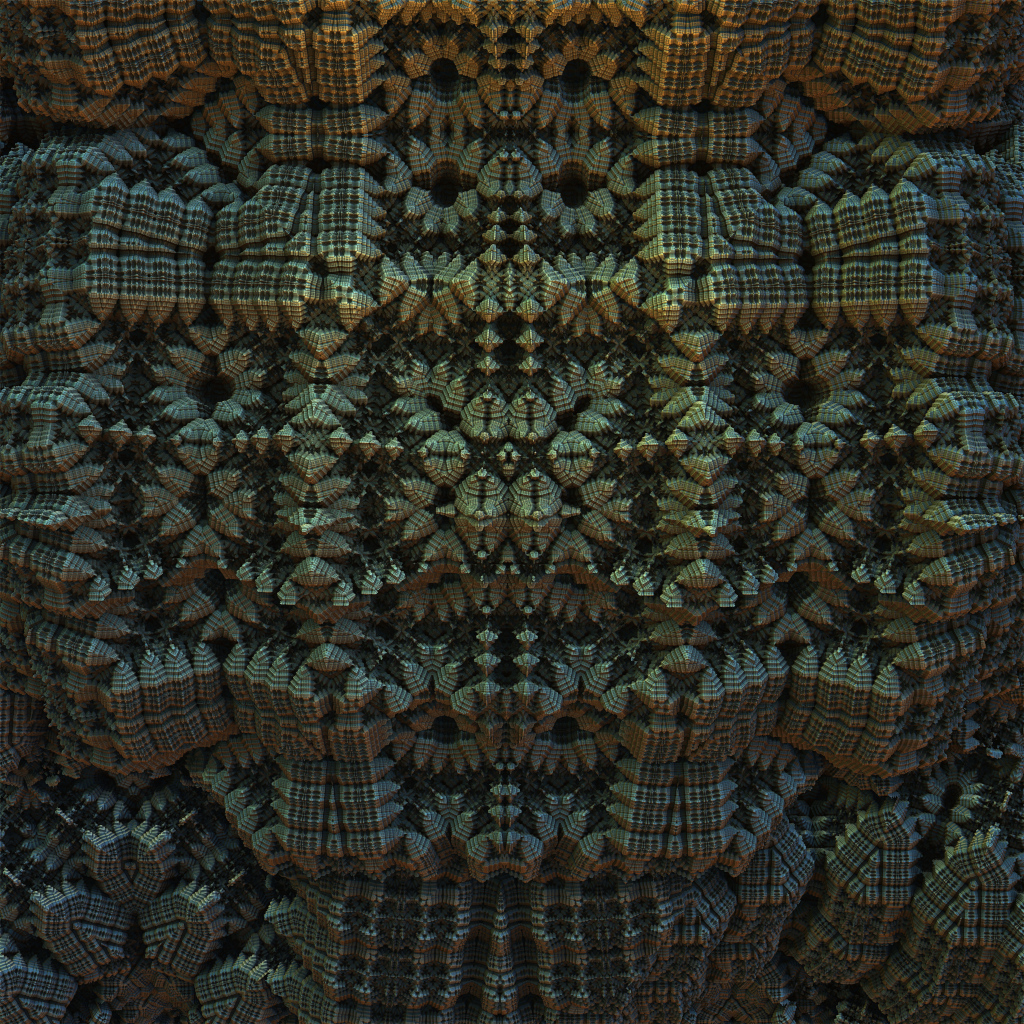
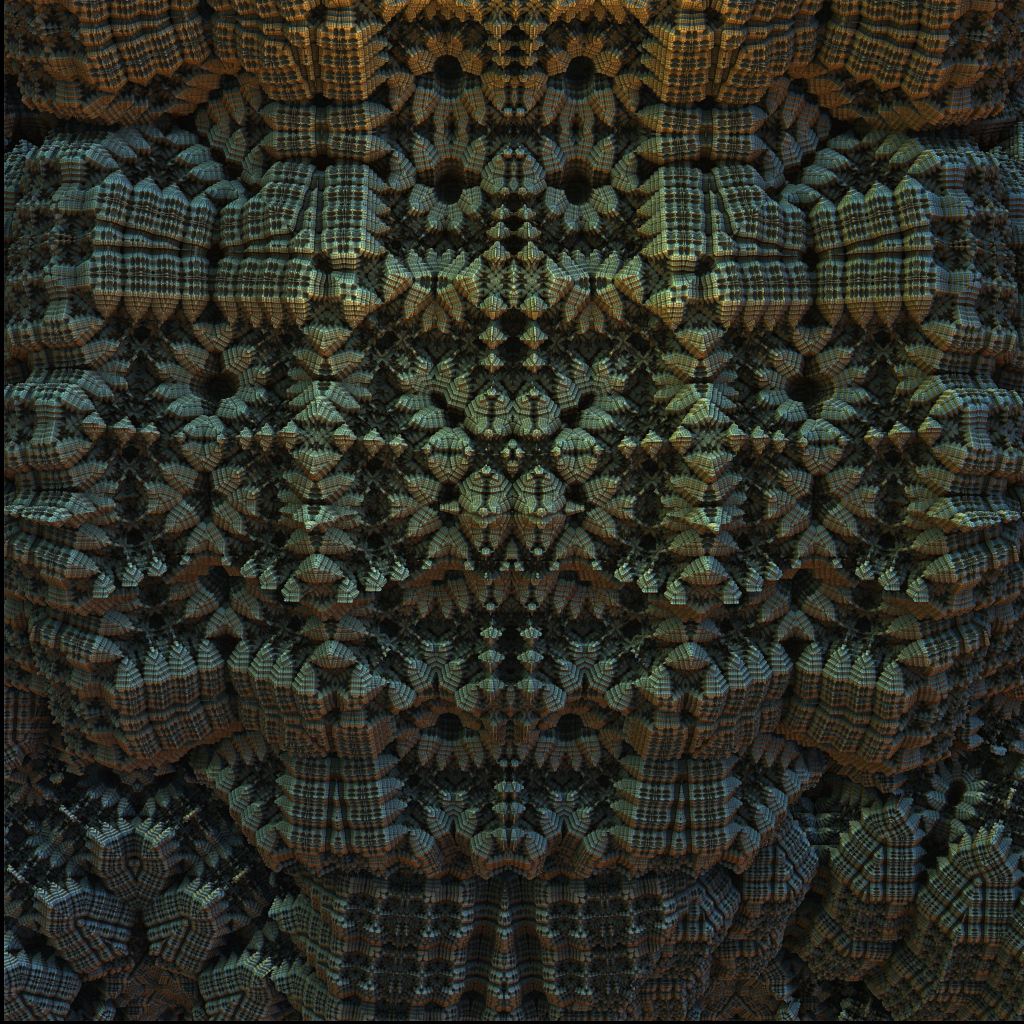
advancement and bg work

diff --git a/components/scenes/hexgrid.vue b/components/scenes/hexgrid.vue
@@ -65,7 +65,7 @@ export default {
     return {
       scene,
       generations: squareSpiralNumber(14),
-      zoom: 200,
+      zoom: 100,
       cycle: 0,
       colorCycle: 0,
       hexGeometry: new Three.BufferGeometry().fromGeometry(new Three.CircleGeometry((1 - this.hexBorder) * this.hexSize, 6)),
